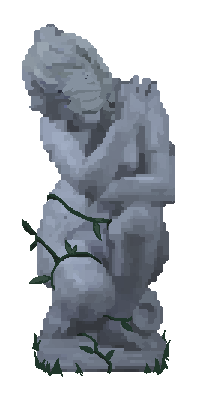
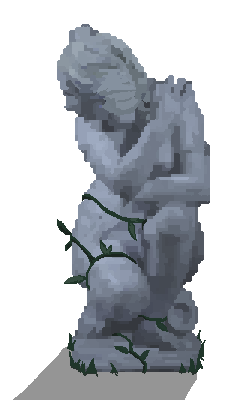
Add clouds, cross grave

diff --git a/src/components/MainMenu.vue b/src/components/MainMenu.vue
@@ -10,7 +10,10 @@
       <div class="vera planet"></div>
     </div> -->
     <div class="grass-overlay"></div>
+    <div class="clouds left"></div>
+    <div class="clouds right"></div>
     <div class="statue-overlay"></div>
+    <div class="cross-grave"></div>
     <div id="content">
       <h1>MiriMiri</h1>
       <br />
@@ -159,16 +162,47 @@ export default {
     width: 100%;
     position: absolute;
     top: 0;
-    background-size: 6000px;
+    background-size: 3000px;
   }
 
   .statue-overlay {
-    background: no-repeat center center url('./../assets/menu/sadstatue.png');
-    height: 50%;
+    background: no-repeat center bottom url('./../assets/menu/sadstatue.png');
+    height: 100%;
     width: 33%;
     position: absolute;
-    bottom: 10px;
+    right: 0;
+    bottom: 0;
+    background-size: 280px 448px;
+  }
+
+  .clouds {
+    height: 100%;
+    width: 100%;
+    position: absolute;
+    top: 0;
+  }
+
+  .clouds.left {
+    background: no-repeat url('./../assets/menu/clouds_left.png');
     left: 0;
+    background-size: 500px;
+  }
+
+  .clouds.right {
+    background: no-repeat top right url('./../assets/menu/clouds_right.png');
+    top: 20px;
+    background-size: 500px;
+  }
+
+  .cross-grave {
+    bottom: -10px;
+    left: 0;
+    background: no-repeat bottom left url('./../assets/menu/cross_grave.png');
+    position: absolute;
+    height: 50%;
+    width: 100%;
+    margin-left: 5%;
+    background-size: 300px;
   }
 
   @keyframes slide {
